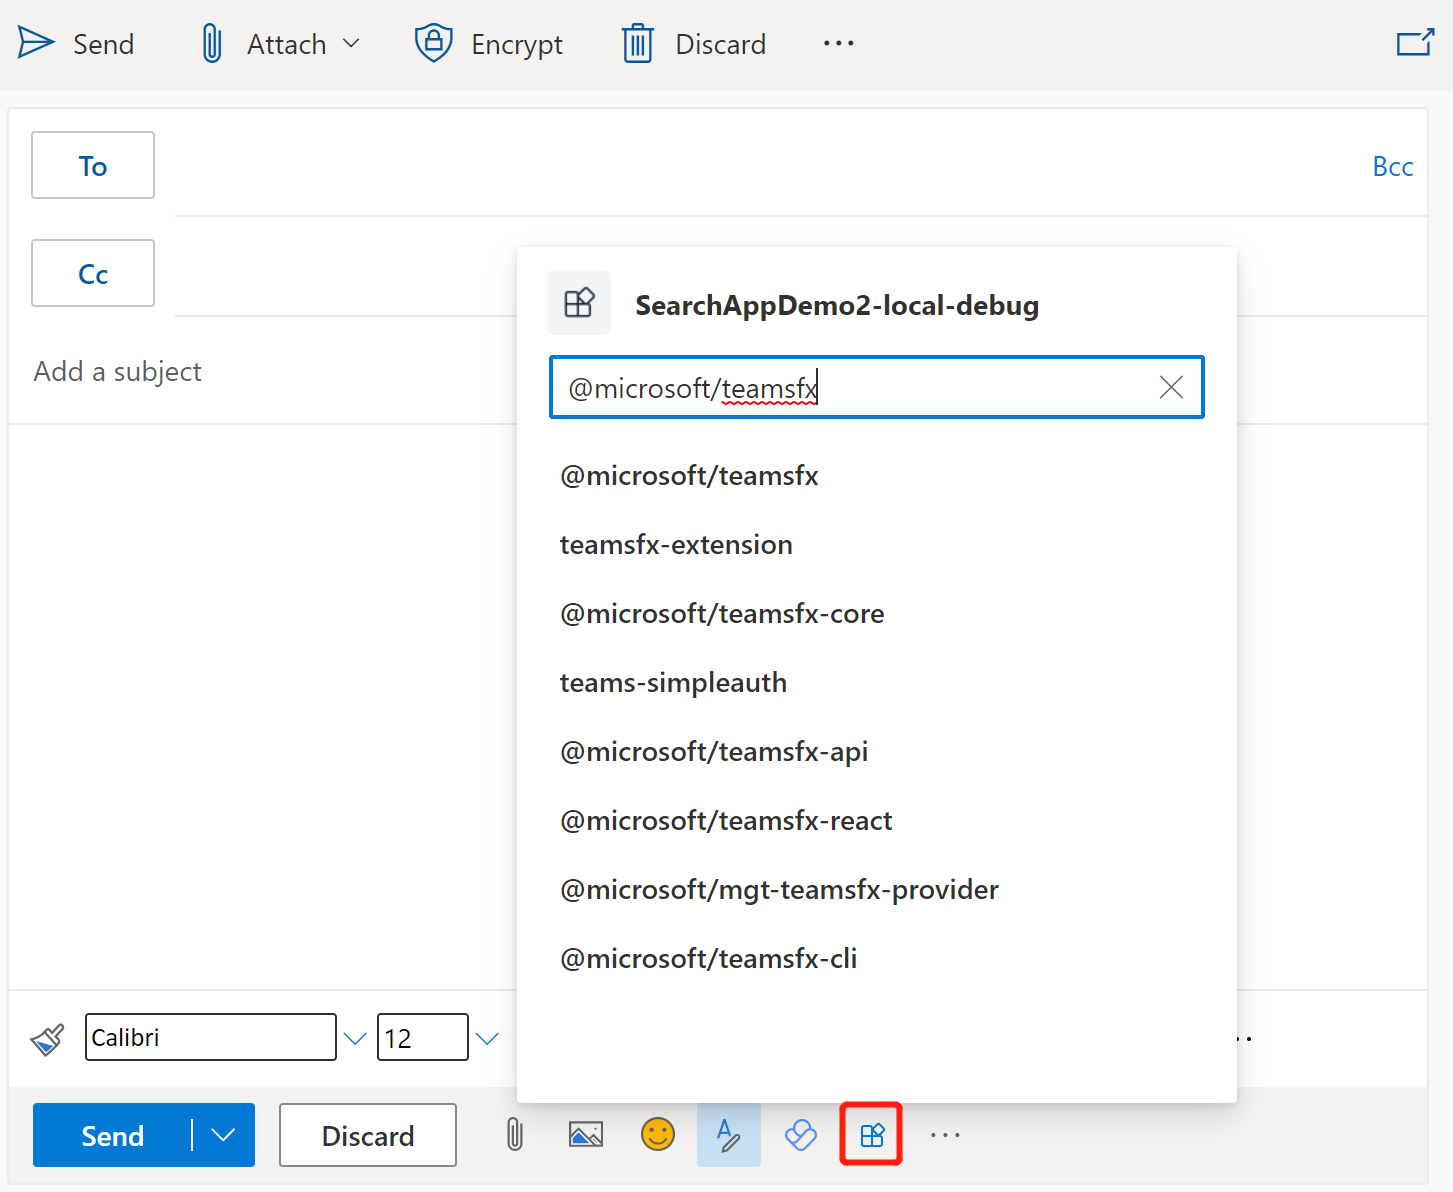
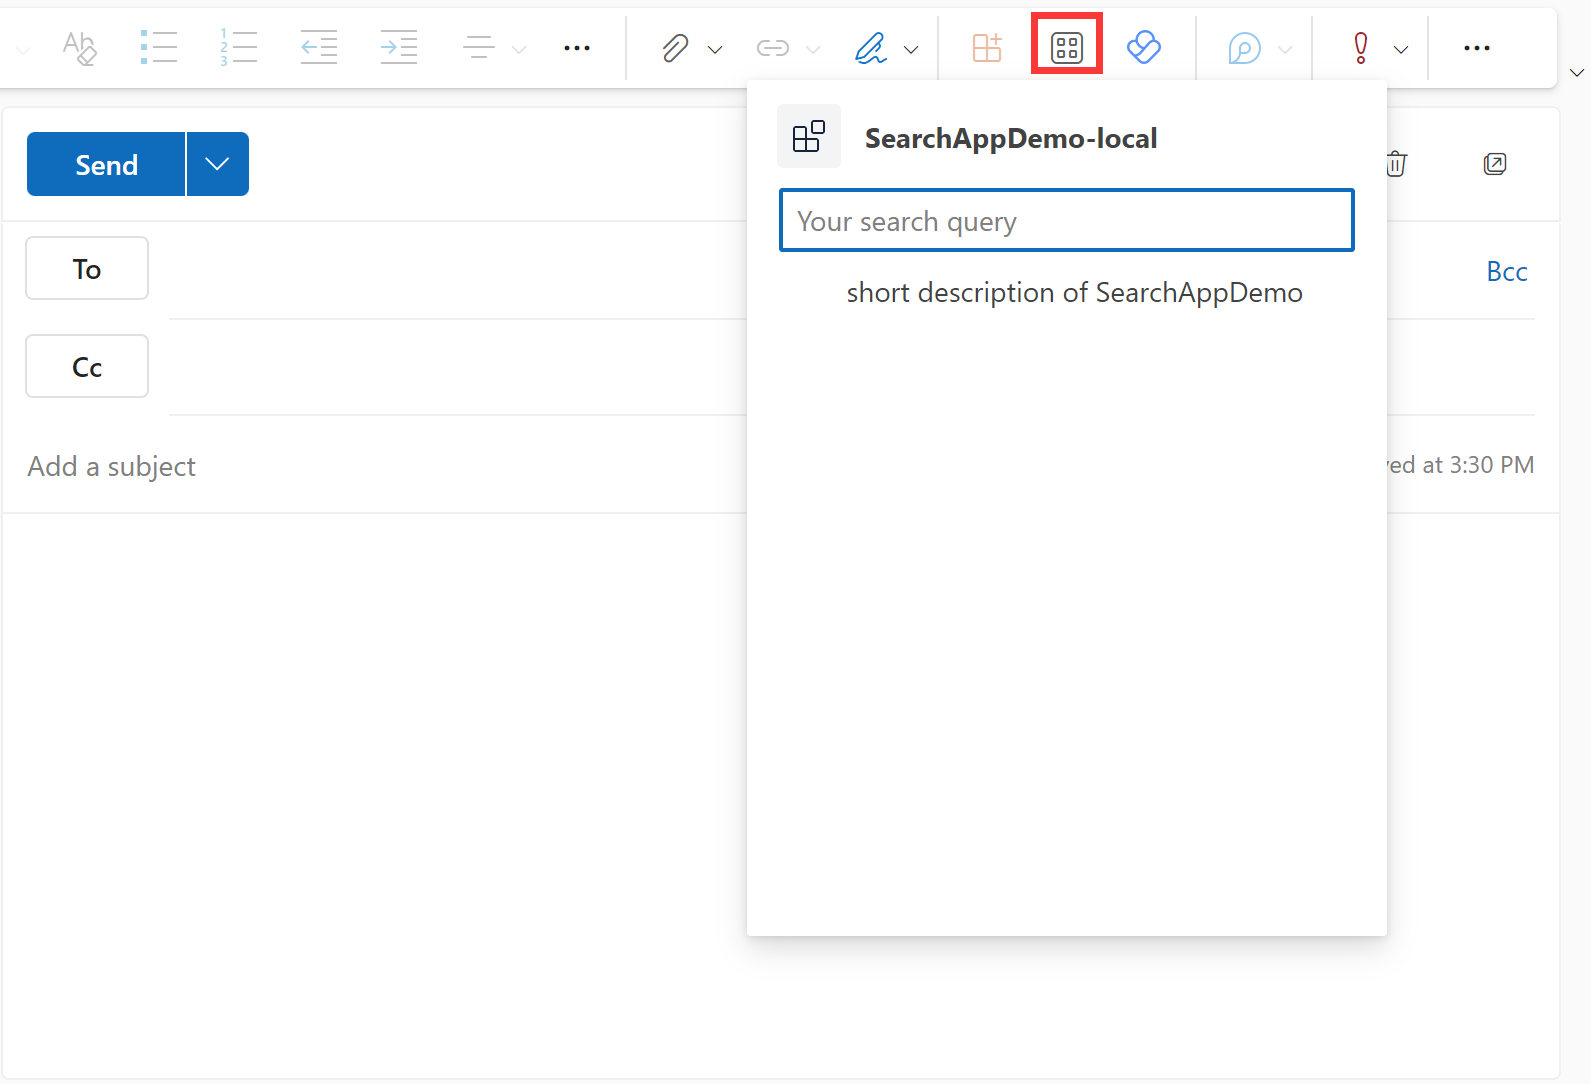
chore: update image

diff --git a/NPM-search-connector-M365/README.md b/NPM-search-connector-M365/README.md
@@ -39,7 +39,7 @@ To trigger the message extension in Teams, there are multiple entry points:
 
 #### Preview the app In Outlook
 To trigger the message extension in Outlook:
-- Click the "More apps" icon under compose email area, find your message extension.
+- Click the "Apps" icon above compose email area, find your message extension.
   ![Open Bot in Outlook](./images/open-bot-in-outlook.png)
 
 ## Version History
